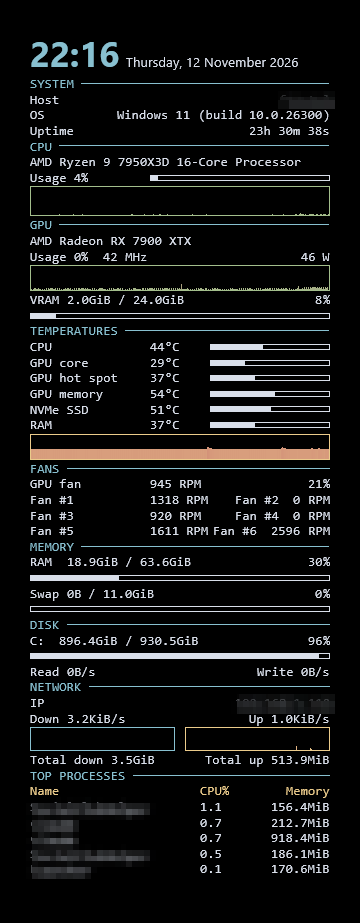
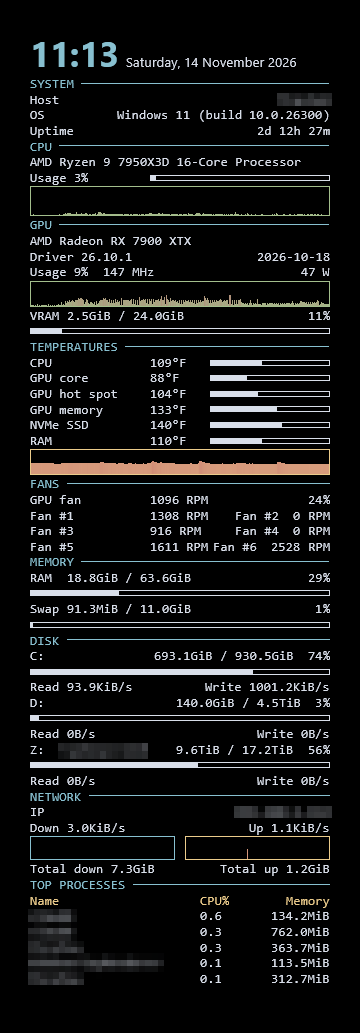
Update README screenshot
Fresh capture of the .NET edition showing the GPU driver line and the
drive list: local, USB and a mapped network share, each with its own
read/write. Host name, IP, share name and process names are pixelated.

Changed region(s): [[0.0611, 0.0303, 0.9472, 0.9707]]

diff --git a/README.md b/README.md
@@ -4,7 +4,7 @@ A [conky](https://github.com/brndnmtthws/conky)-style system monitor for Windows
 It draws live system stats as text, bars and graphs straight onto your desktop: clock, CPU, GPU, memory, disks, network,
 top processes, temperatures, fan speeds and battery. A plain-text config file controls everything, just like conky.
 
-<p align="center"><img src="docs/screenshot.png" alt="congee showing clock, CPU, GPU, temperatures, fans, memory, disk, network and top processes" width="360"></p>
+<p align="center"><img src="docs/screenshot.png" alt="congee showing clock, CPU, GPU, temperatures, fans, memory, every drive with its read/write, network and top processes" width="360"></p>
 
 - [Editions: Python or .NET](#editions-python-or-net)
 - [Requirements](#requirements)
